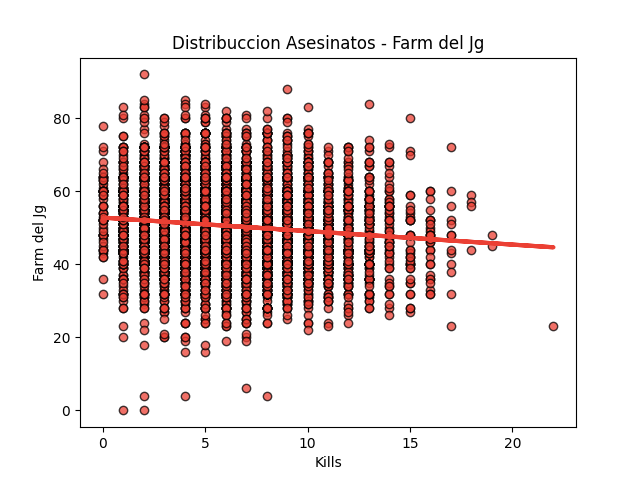
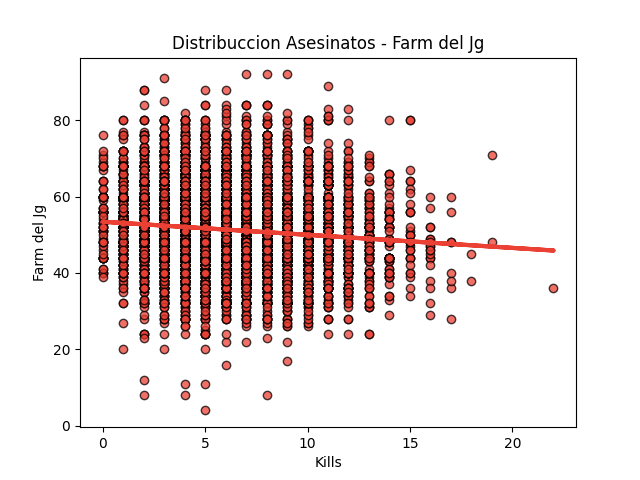
Practica 6+

diff --git a/Practica 6/Practica 6.py b/Practica 6/Practica 6.py
@@ -63,7 +63,7 @@ fB, kB, fR, kR = Dist(df, 6, 12, 15, 21)
 #Regresion para equipo azul farmJG - Kills
 scatter(fB, kB, colorB, "Distribuccion Asesinatos - Farm del Jg", "Scatter_KillsFarmJGBlue.png", "Kills", "Farm del Jg")
 #Regresion para equipo rojo farmJG - Kills
-scatter(fB, kB, colorR, "Distribuccion Asesinatos - Farm del Jg", "Scatter_KillsFarmJGRed.png", "Kills", "Farm del Jg")
+scatter(fR, kR, colorR, "Distribuccion Asesinatos - Farm del Jg", "Scatter_KillsFarmJGRed.png", "Kills", "Farm del Jg")
 
 wB, dB, wR, dR = Dist(df, 4, 15, 13, 6)
 #Regresion para equipo azul Wards - Muertes
